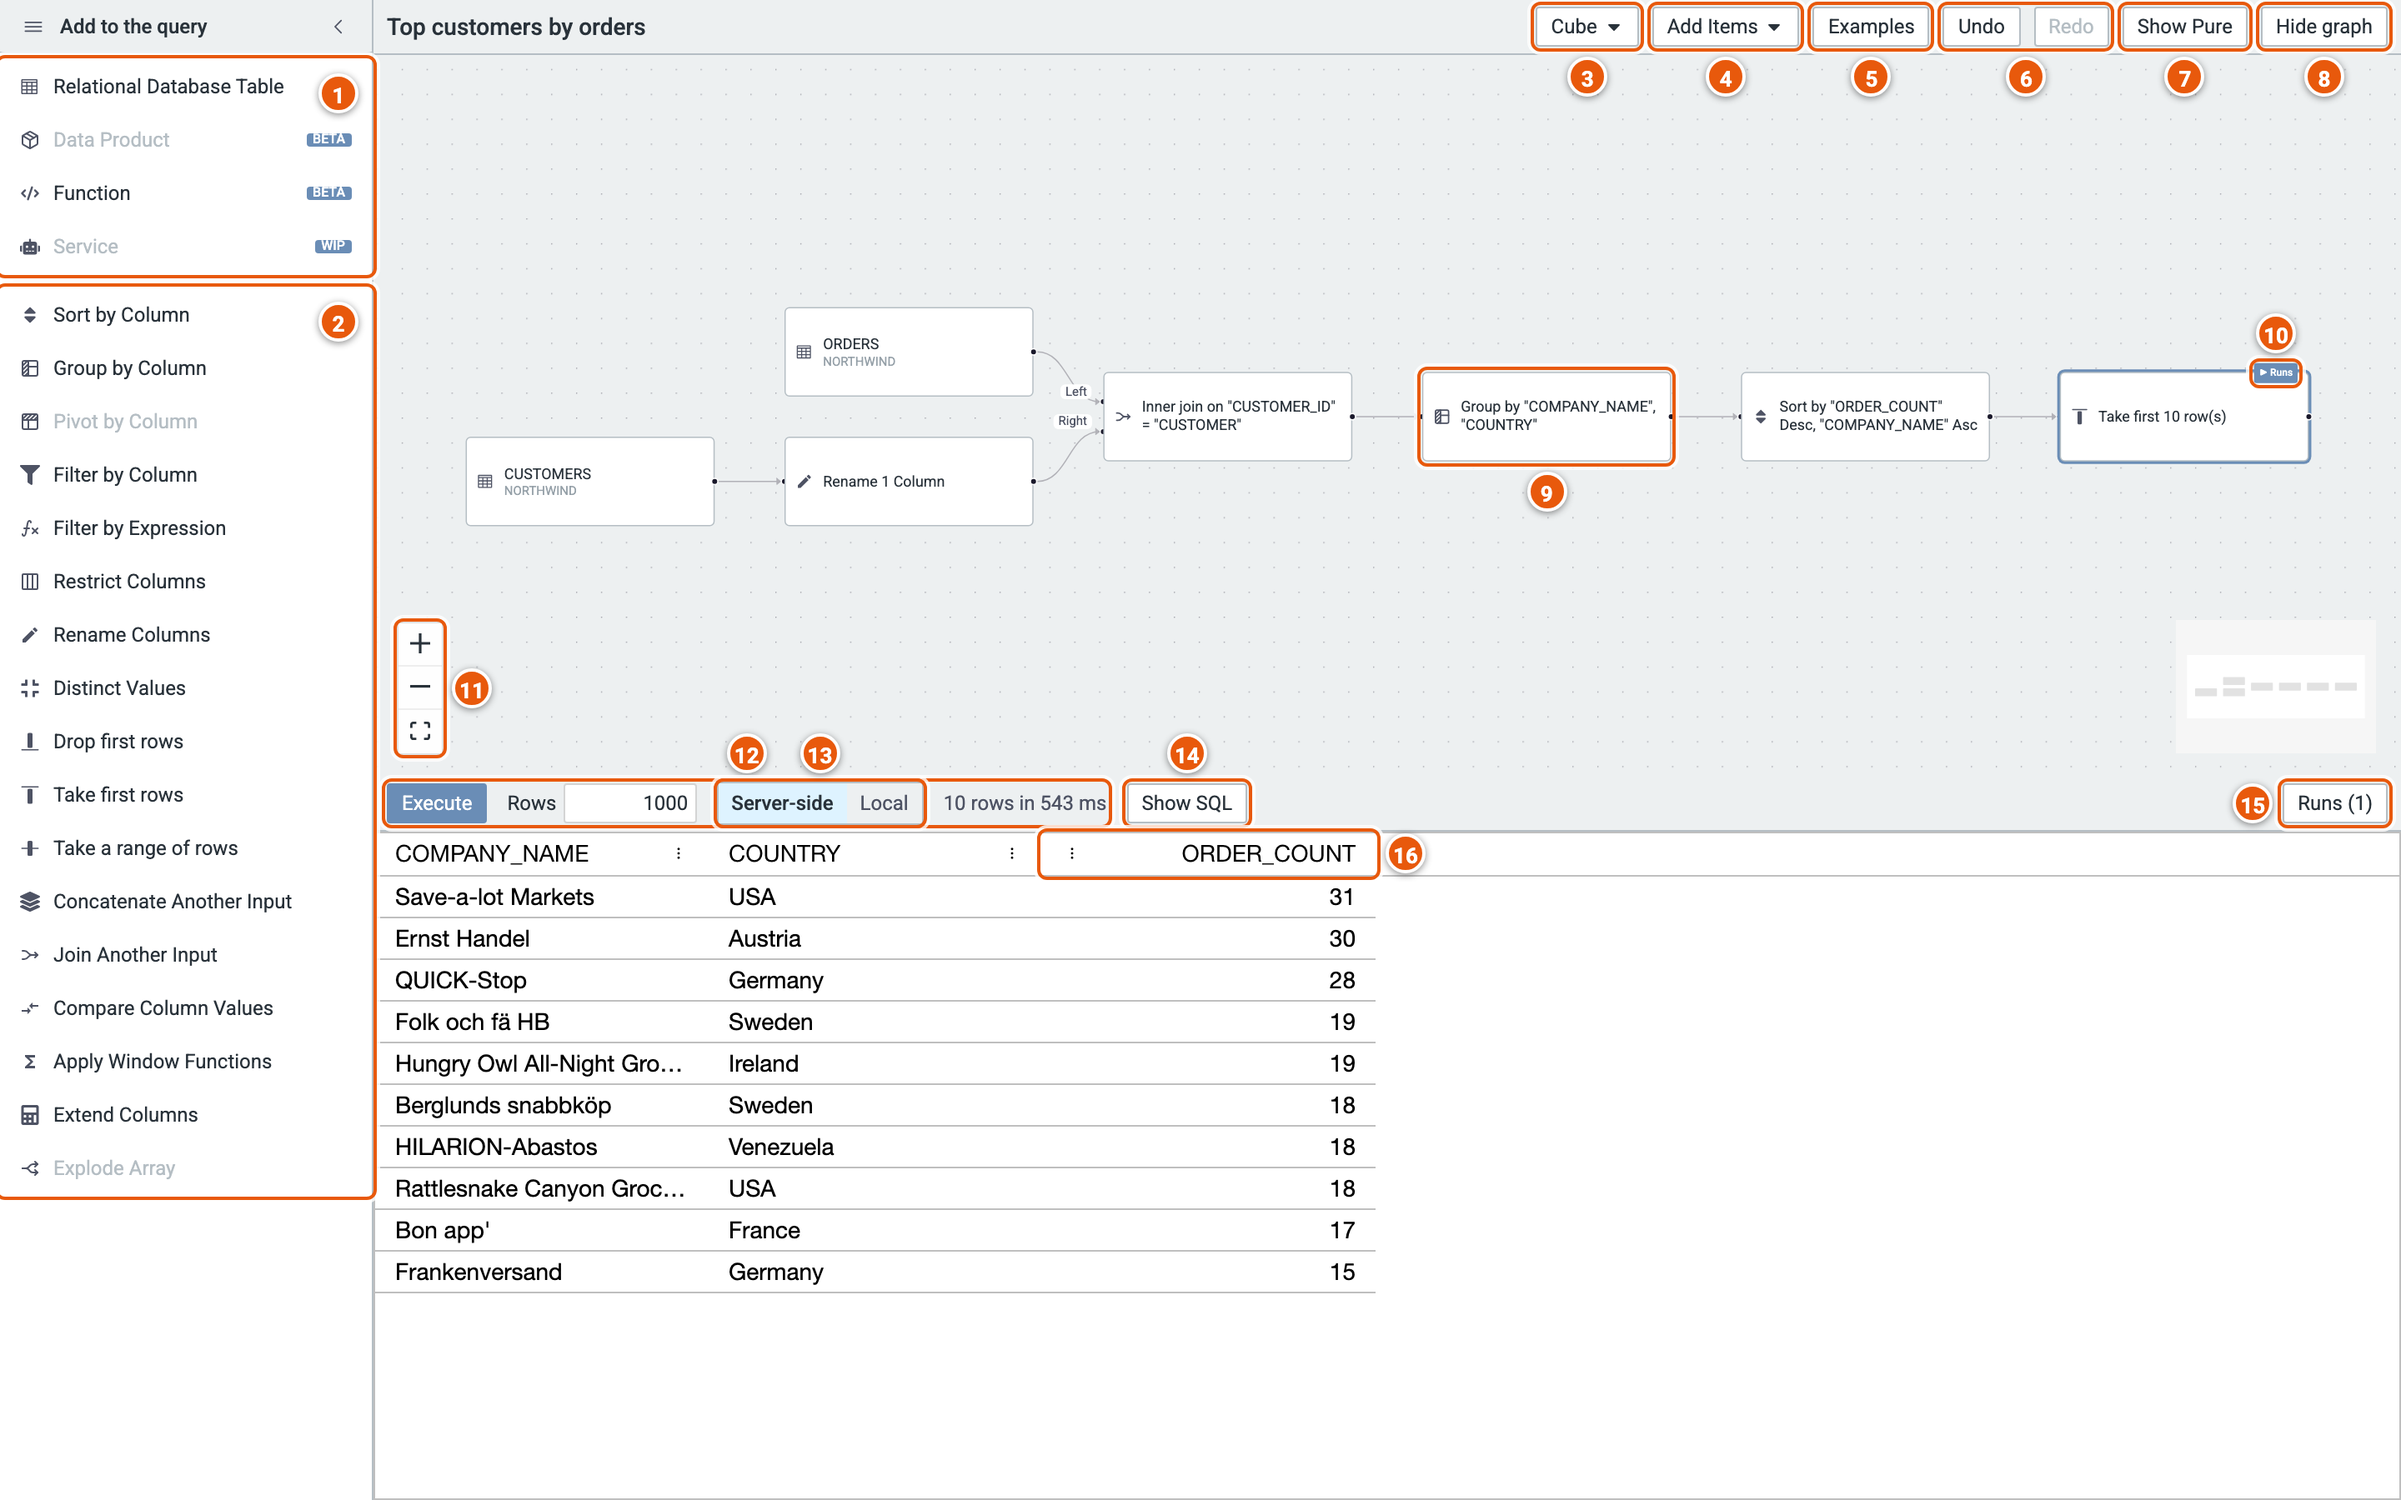
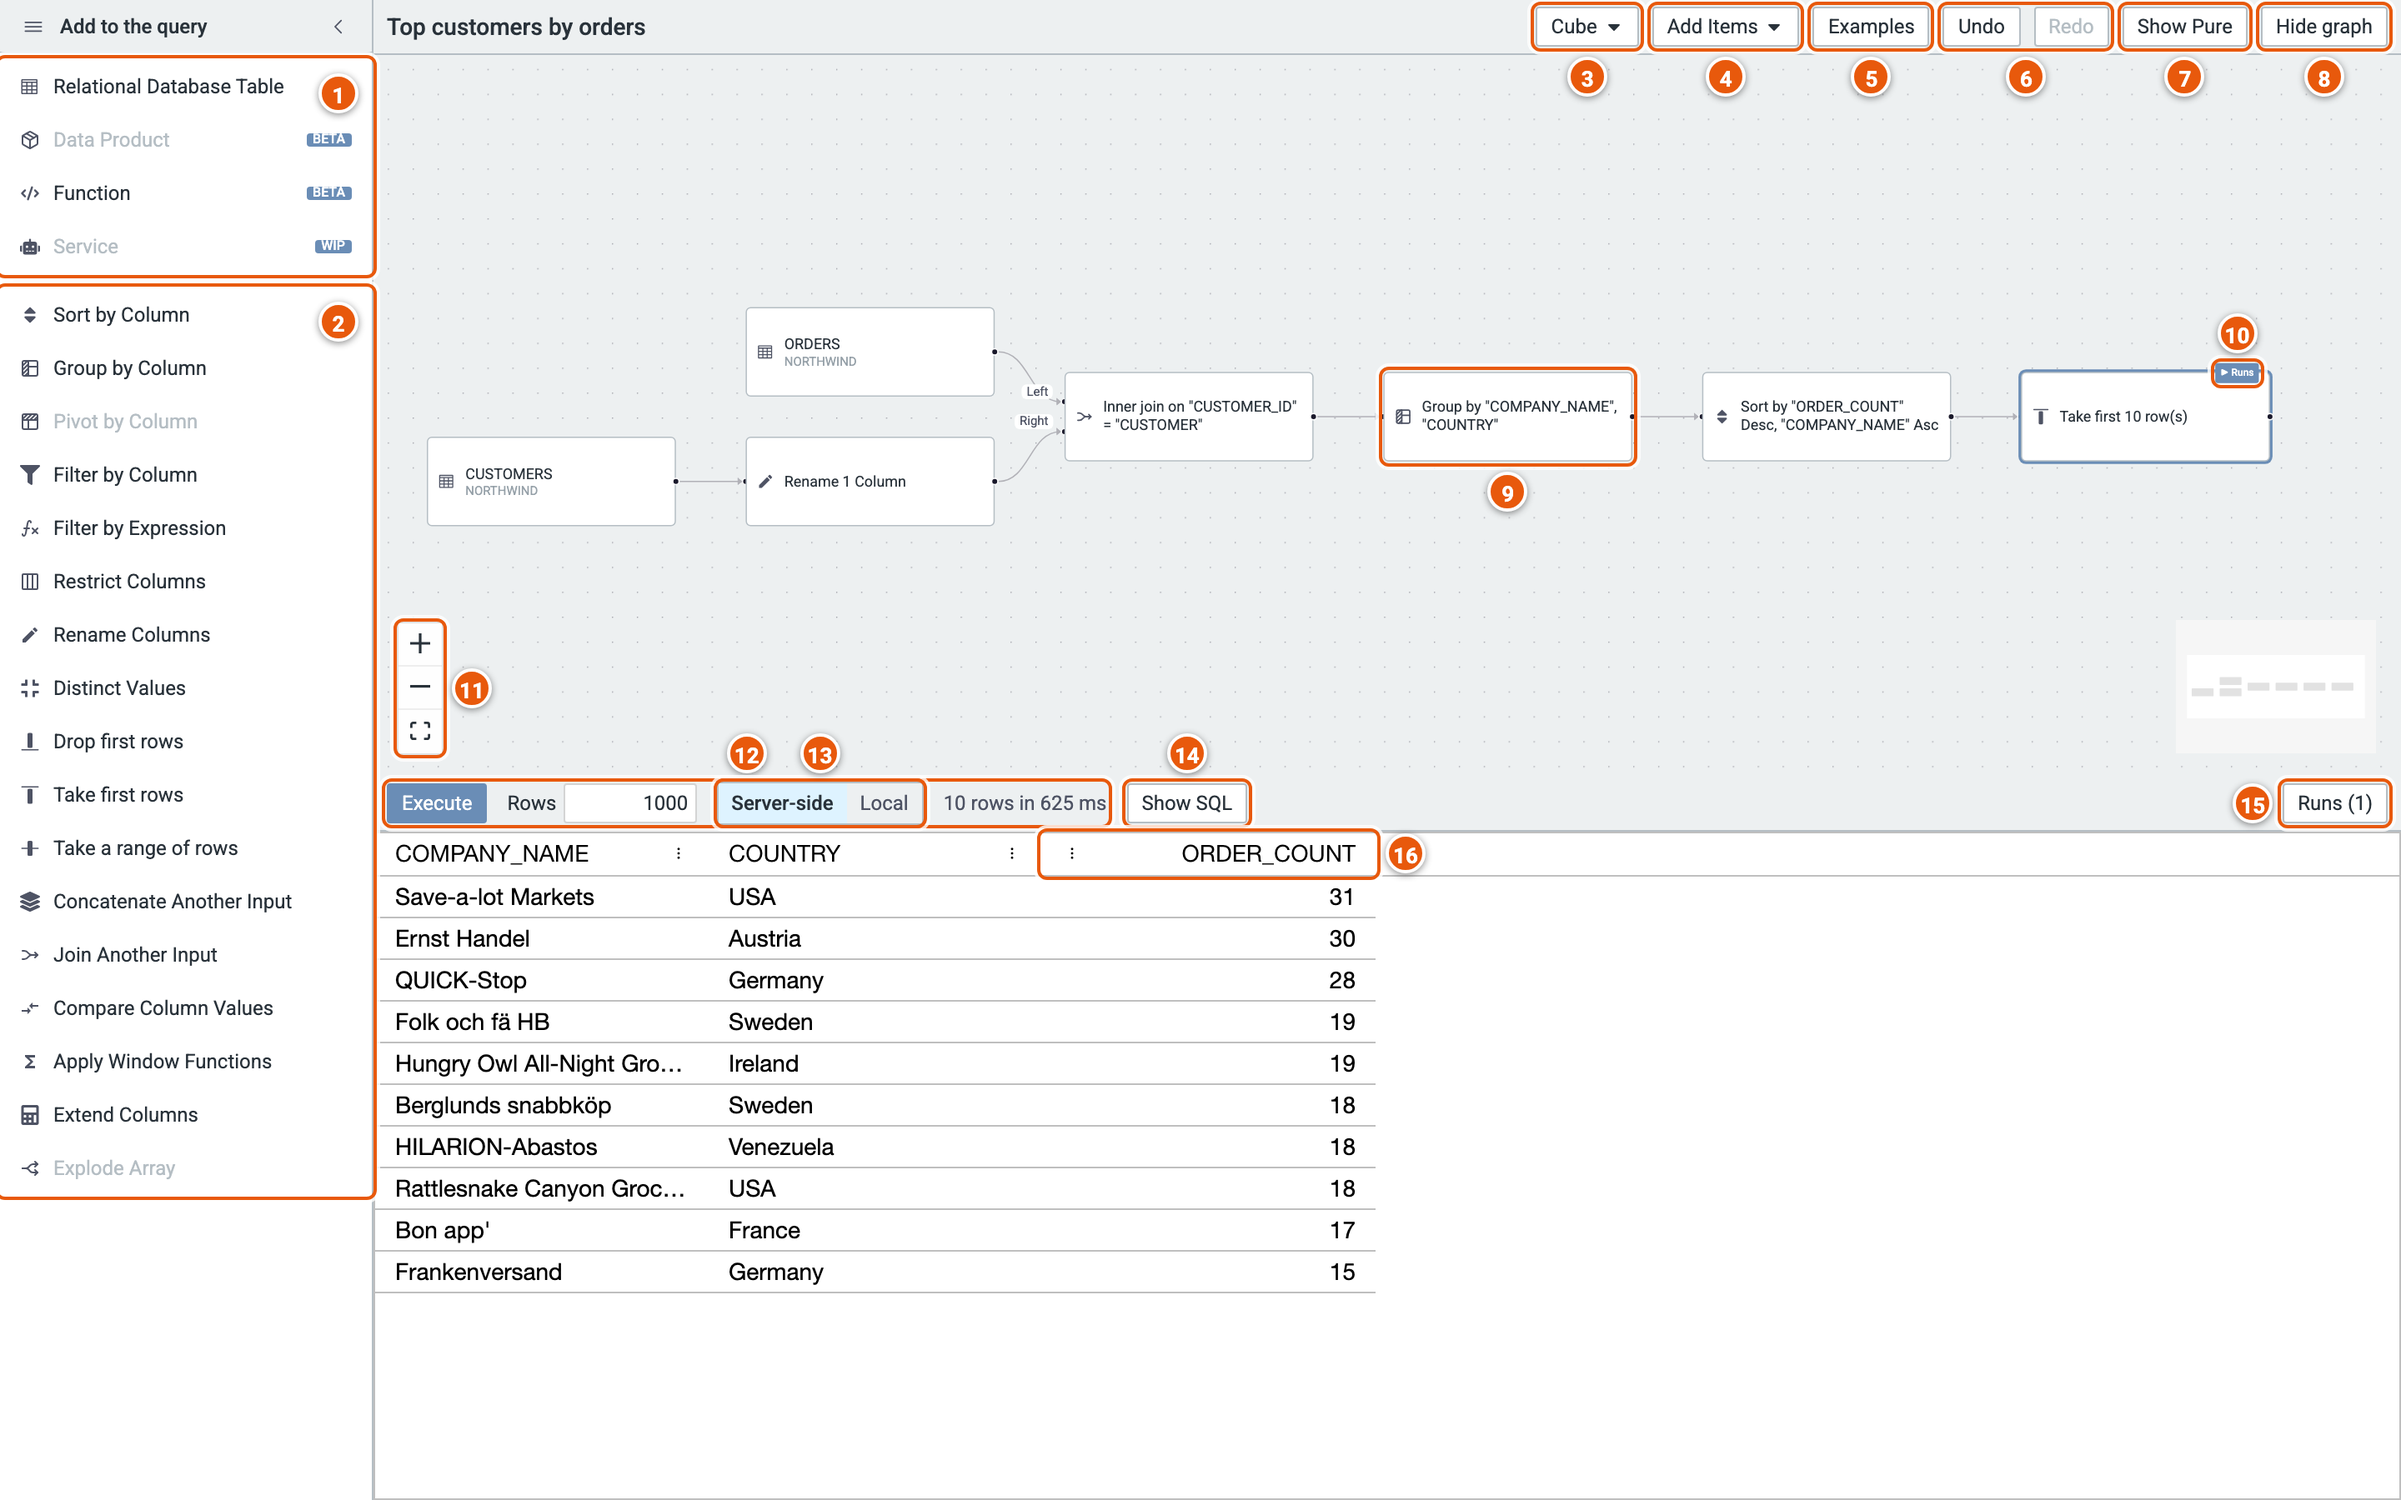
feat(cube): fit the graph to the left of the canvas (#5722)
* feat(cube): fit the graph to the left of the canvas

Feedback: the graph sits against the canvas's left edge, as the internal
application lays its graphs out, zoomed as fitting it would and centred top
to bottom; the fit view button does the same.

* docs(cube): the guide's editor images with the graph to the left

---------

diff --git a/packages/legend-cube-builder/src/components/canvas/CubeCanvas.tsx b/packages/legend-cube-builder/src/components/canvas/CubeCanvas.tsx
@@ -20,20 +20,24 @@ import { noop } from '@finos/legend-shared';
 import {
   Background,
   type Connection as FlowConnection,
+  ControlButton,
   Controls,
   type Edge,
+  getViewportForBounds,
   MiniMap,
   ReactFlow,
   ReactFlowProvider,
+  type Rect,
   useNodesInitialized,
   useReactFlow,
   useStore,
+  type Viewport,
 } from '@xyflow/react';
 // imported here, not in the builder's stylesheet, so it loads with the Cube
 // page's chunk: Query's reactflow 11 lineage viewer uses the same class names
 import '@xyflow/react/dist/style.css';
 import { observer } from 'mobx-react-lite';
-import { useEffect, useMemo, useRef } from 'react';
+import { useCallback, useEffect, useMemo, useRef } from 'react';
 import { useDrop } from 'react-dnd';
 import { LEGEND_CUBE_TEST_ID } from '../../__lib__/LegendCubeTesting.js';
 import {
@@ -73,6 +77,41 @@ const PRO_OPTIONS = { hideAttribution: true };
 const MINI_MAP_STYLE = { width: 120, height: 80 };
 // little padding, so a long flow keeps its text as large as it can
 const FIT_VIEW_OPTIONS = { padding: 0.1, maxZoom: 1 };
+const CANVAS_MIN_ZOOM = 0.2;
+/** The space left of the graph once fitted to the left (feedback, 2026-10-16) */
+export const CUBE_CANVAS_LEFT_MARGIN = 32;
+
+/**
+ * The viewport that shows the graph whole, zoomed as fitting it would, but
+ * against the canvas's left edge rather than centred (feedback, 2026-10-16,
+ * as the internal application lays its graphs out); centred top to bottom
+ */
+export const getCubeCanvasLeftAlignedViewport = (
+  bounds: Rect,
+  width: number,
+  height: number,
+): Viewport => {
+  const { zoom, y } = getViewportForBounds(
+    bounds,
+    width,
+    height,
+    CANVAS_MIN_ZOOM,
+    FIT_VIEW_OPTIONS.maxZoom,
+    FIT_VIEW_OPTIONS.padding,
+  );
+  return { x: CUBE_CANVAS_LEFT_MARGIN - bounds.x * zoom, y, zoom };
+};
+
+/** React Flow's fit view icon, for the button that fits the graph to the left */
+const FitViewIcon: React.FC = () => (
+  <svg
+    xmlns="http://www.w3.org/2000/svg"
+    viewBox="0 0 32 30"
+    aria-hidden={true}
+  >
+    <path d="M3.692 4.63c0-.53.4-.938.939-.938h5.215V0H4.708C2.13 0 0 2.054 0 4.63v5.216h3.692V4.631zM27.354 0h-5.2v3.692h5.17c.53 0 .984.4.984.939v5.215H32V4.631A4.624 4.624 0 0027.354 0zm.954 24.83c0 .532-.4.94-.939.94h-5.215v3.768h5.215c2.577 0 4.631-2.13 4.631-4.707v-5.139h-3.692v5.139zm-23.677.94c-.531 0-.939-.4-.939-.94v-5.138H0v5.139c0 2.577 2.13 4.707 4.708 4.707h5.138V25.77H4.631z" />
+  </svg>
+);
 
 /**
  * Whether dragging from one handle to another may connect the two nodes: out
@@ -94,16 +133,16 @@ const CubeCanvasFlow = observer((props: { editorState: CubeEditorState }) => {
   const { editorState } = props;
   const { query } = editorState.document;
   const { readOnly } = editorState;
-  const { fitView } = useReactFlow();
+  const { getNodes, getNodesBounds, setViewport } = useReactFlow();
   const positions = useMemo(() => layoutCubeQuery(query), [query]);
   const nodes = useMemo(
     () => buildCubeCanvasNodes(query, positions),
     [query, positions],
   );
   const edges = useMemo(() => buildCubeCanvasEdges(query), [query]);
-  // the view fits the graph again whenever the layout moves a node, or the
-  // canvas changes size (e.g. the splitter above the grid moves), once React
-  // Flow has measured every node: it fits only measured ones
+  // the view fits the graph again, to the left, whenever the layout moves a
+  // node, or the canvas changes size (e.g. the splitter above the grid
+  // moves), once React Flow has measured every node
   const layoutSignature = useMemo(
     () => JSON.stringify([...positions]),
     [positions],
@@ -111,15 +150,26 @@ const CubeCanvasFlow = observer((props: { editorState: CubeEditorState }) => {
   const nodesInitialized = useNodesInitialized();
   const canvasWidth = useStore((state) => state.width);
   const canvasHeight = useStore((state) => state.height);
+  const fitToLeft = useCallback((): void => {
+    const shown = getNodes();
+    if (!shown.length || !canvasWidth || !canvasHeight) {
+      return;
+    }
+    setViewport(
+      getCubeCanvasLeftAlignedViewport(
+        getNodesBounds(shown),
+        canvasWidth,
+        canvasHeight,
+      ),
+    ).catch(noop());
+  }, [getNodes, getNodesBounds, setViewport, canvasWidth, canvasHeight]);
   useEffect(() => {
     if (!nodesInitialized) {
       return undefined;
     }
-    const timer = window.setTimeout(() => {
-      fitView(FIT_VIEW_OPTIONS).catch(noop());
-    }, 0);
+    const timer = window.setTimeout(fitToLeft, 0);
     return () => window.clearTimeout(timer);
-  }, [layoutSignature, canvasWidth, canvasHeight, nodesInitialized, fitView]);
+  }, [layoutSignature, nodesInitialized, fitToLeft]);
 
   return (
     <ReactFlow<CubeCanvasFlowNode, CubeCanvasFlowEdge>
@@ -242,13 +292,21 @@ const CubeCanvasFlow = observer((props: { editorState: CubeEditorState }) => {
           : 'dark'
       }
       proOptions={PRO_OPTIONS}
-      fitView={true}
-      fitViewOptions={FIT_VIEW_OPTIONS}
-      minZoom={0.2}
+      minZoom={CANVAS_MIN_ZOOM}
       maxZoom={1.5}
     >
       <Background />
-      <Controls showInteractive={false} />
+      <Controls showInteractive={false} showFitView={false}>
+        {/* in place of React Flow's, which centres the graph */}
+        <ControlButton
+          className="react-flow__controls-fitview"
+          title="fit view"
+          aria-label="fit view"
+          onClick={fitToLeft}
+        >
+          <FitViewIcon />
+        </ControlButton>
+      </Controls>
       <MiniMap pannable={true} zoomable={true} style={MINI_MAP_STYLE} />
       <CubeNodeEditorPopper editorState={editorState} positions={positions} />
     </ReactFlow>

diff --git a/packages/legend-cube-builder/src/components/canvas/__tests__/CubeCanvasLeftAligned.test.ts b/packages/legend-cube-builder/src/components/canvas/__tests__/CubeCanvasLeftAligned.test.ts
@@ -1,0 +1,47 @@
+/**
+ * Copyright (c) 2026-present, Goldman Sachs
+ *
+ * Licensed under the Apache License, Version 2.0 (the "License");
+ * you may not use this file except in compliance with the License.
+ * You may obtain a copy of the License at
+ *
+ *     http://www.apache.org/licenses/LICENSE-2.0
+ *
+ * Unless required by applicable law or agreed to in writing, software
+ * distributed under the License is distributed on an "AS IS" BASIS,
+ * WITHOUT WARRANTIES OR CONDITIONS OF ANY KIND, either express or implied.
+ * See the License for the specific language governing permissions and
+ * limitations under the License.
+ */
+
+import { describe, expect, test } from '@jest/globals';
+import { getViewportForBounds } from '@xyflow/react';
+import {
+  CUBE_CANVAS_LEFT_MARGIN,
+  getCubeCanvasLeftAlignedViewport,
+} from '../CubeCanvas.js';
+
+describe('The graph fitted to the left of the canvas', () => {
+  test('Puts a small graph against the left edge, at full size, centred top to bottom', () => {
+    const bounds = { x: 100, y: 50, width: 400, height: 100 };
+    const viewport = getCubeCanvasLeftAlignedViewport(bounds, 1000, 500);
+    expect(viewport.zoom).toBe(1);
+    // the graph's left edge shows at the margin
+    expect(bounds.x * viewport.zoom + viewport.x).toBe(CUBE_CANVAS_LEFT_MARGIN);
+    // and top to bottom, as fitting it would
+    expect(viewport.y).toBe(
+      getViewportForBounds(bounds, 1000, 500, 0.2, 1, 0.1).y,
+    );
+  });
+
+  test('Zooms a wide graph out as fitting it would, still from the left', () => {
+    const bounds = { x: -20, y: 0, width: 3000, height: 200 };
+    const viewport = getCubeCanvasLeftAlignedViewport(bounds, 1000, 500);
+    const fitted = getViewportForBounds(bounds, 1000, 500, 0.2, 1, 0.1);
+    expect(viewport.zoom).toBe(fitted.zoom);
+    expect(viewport.zoom).toBeLessThan(1);
+    expect(bounds.x * viewport.zoom + viewport.x).toBeCloseTo(
+      CUBE_CANVAS_LEFT_MARGIN,
+    );
+  });
+});

diff --git a/.changeset/legend-cube-canvas-left.md b/.changeset/legend-cube-canvas-left.md
@@ -1,0 +1,5 @@
+---
+'@finos/legend-cube-builder': patch
+---
+
+Fit Legend Cube's graph to the left of the canvas, as the internal application lays its graphs out, in place of centring it; the fit view button does the same.
